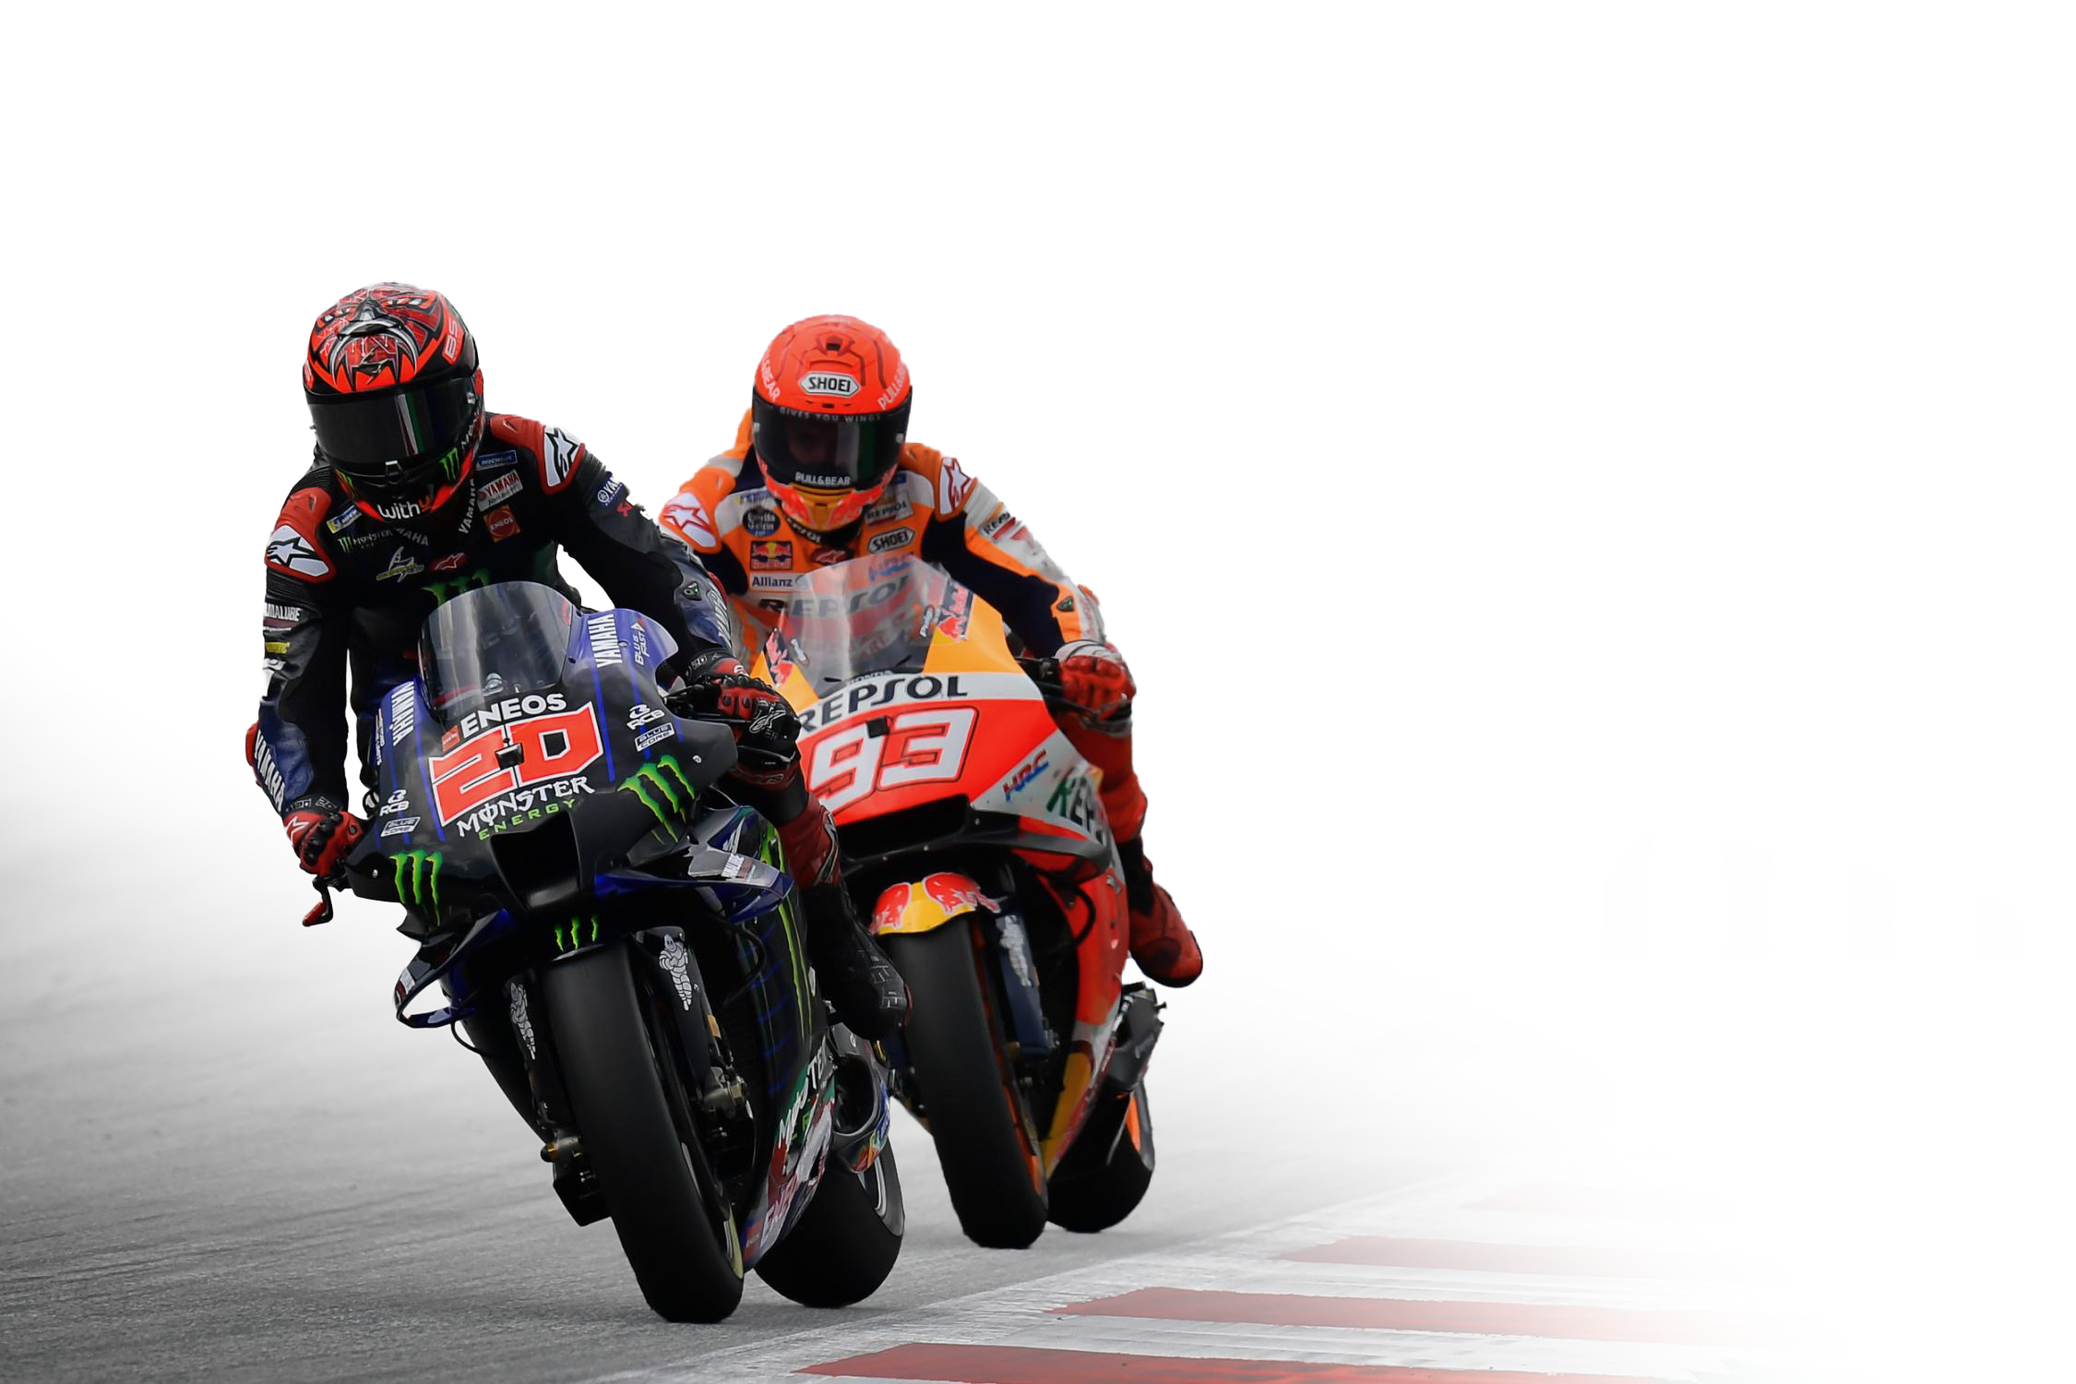
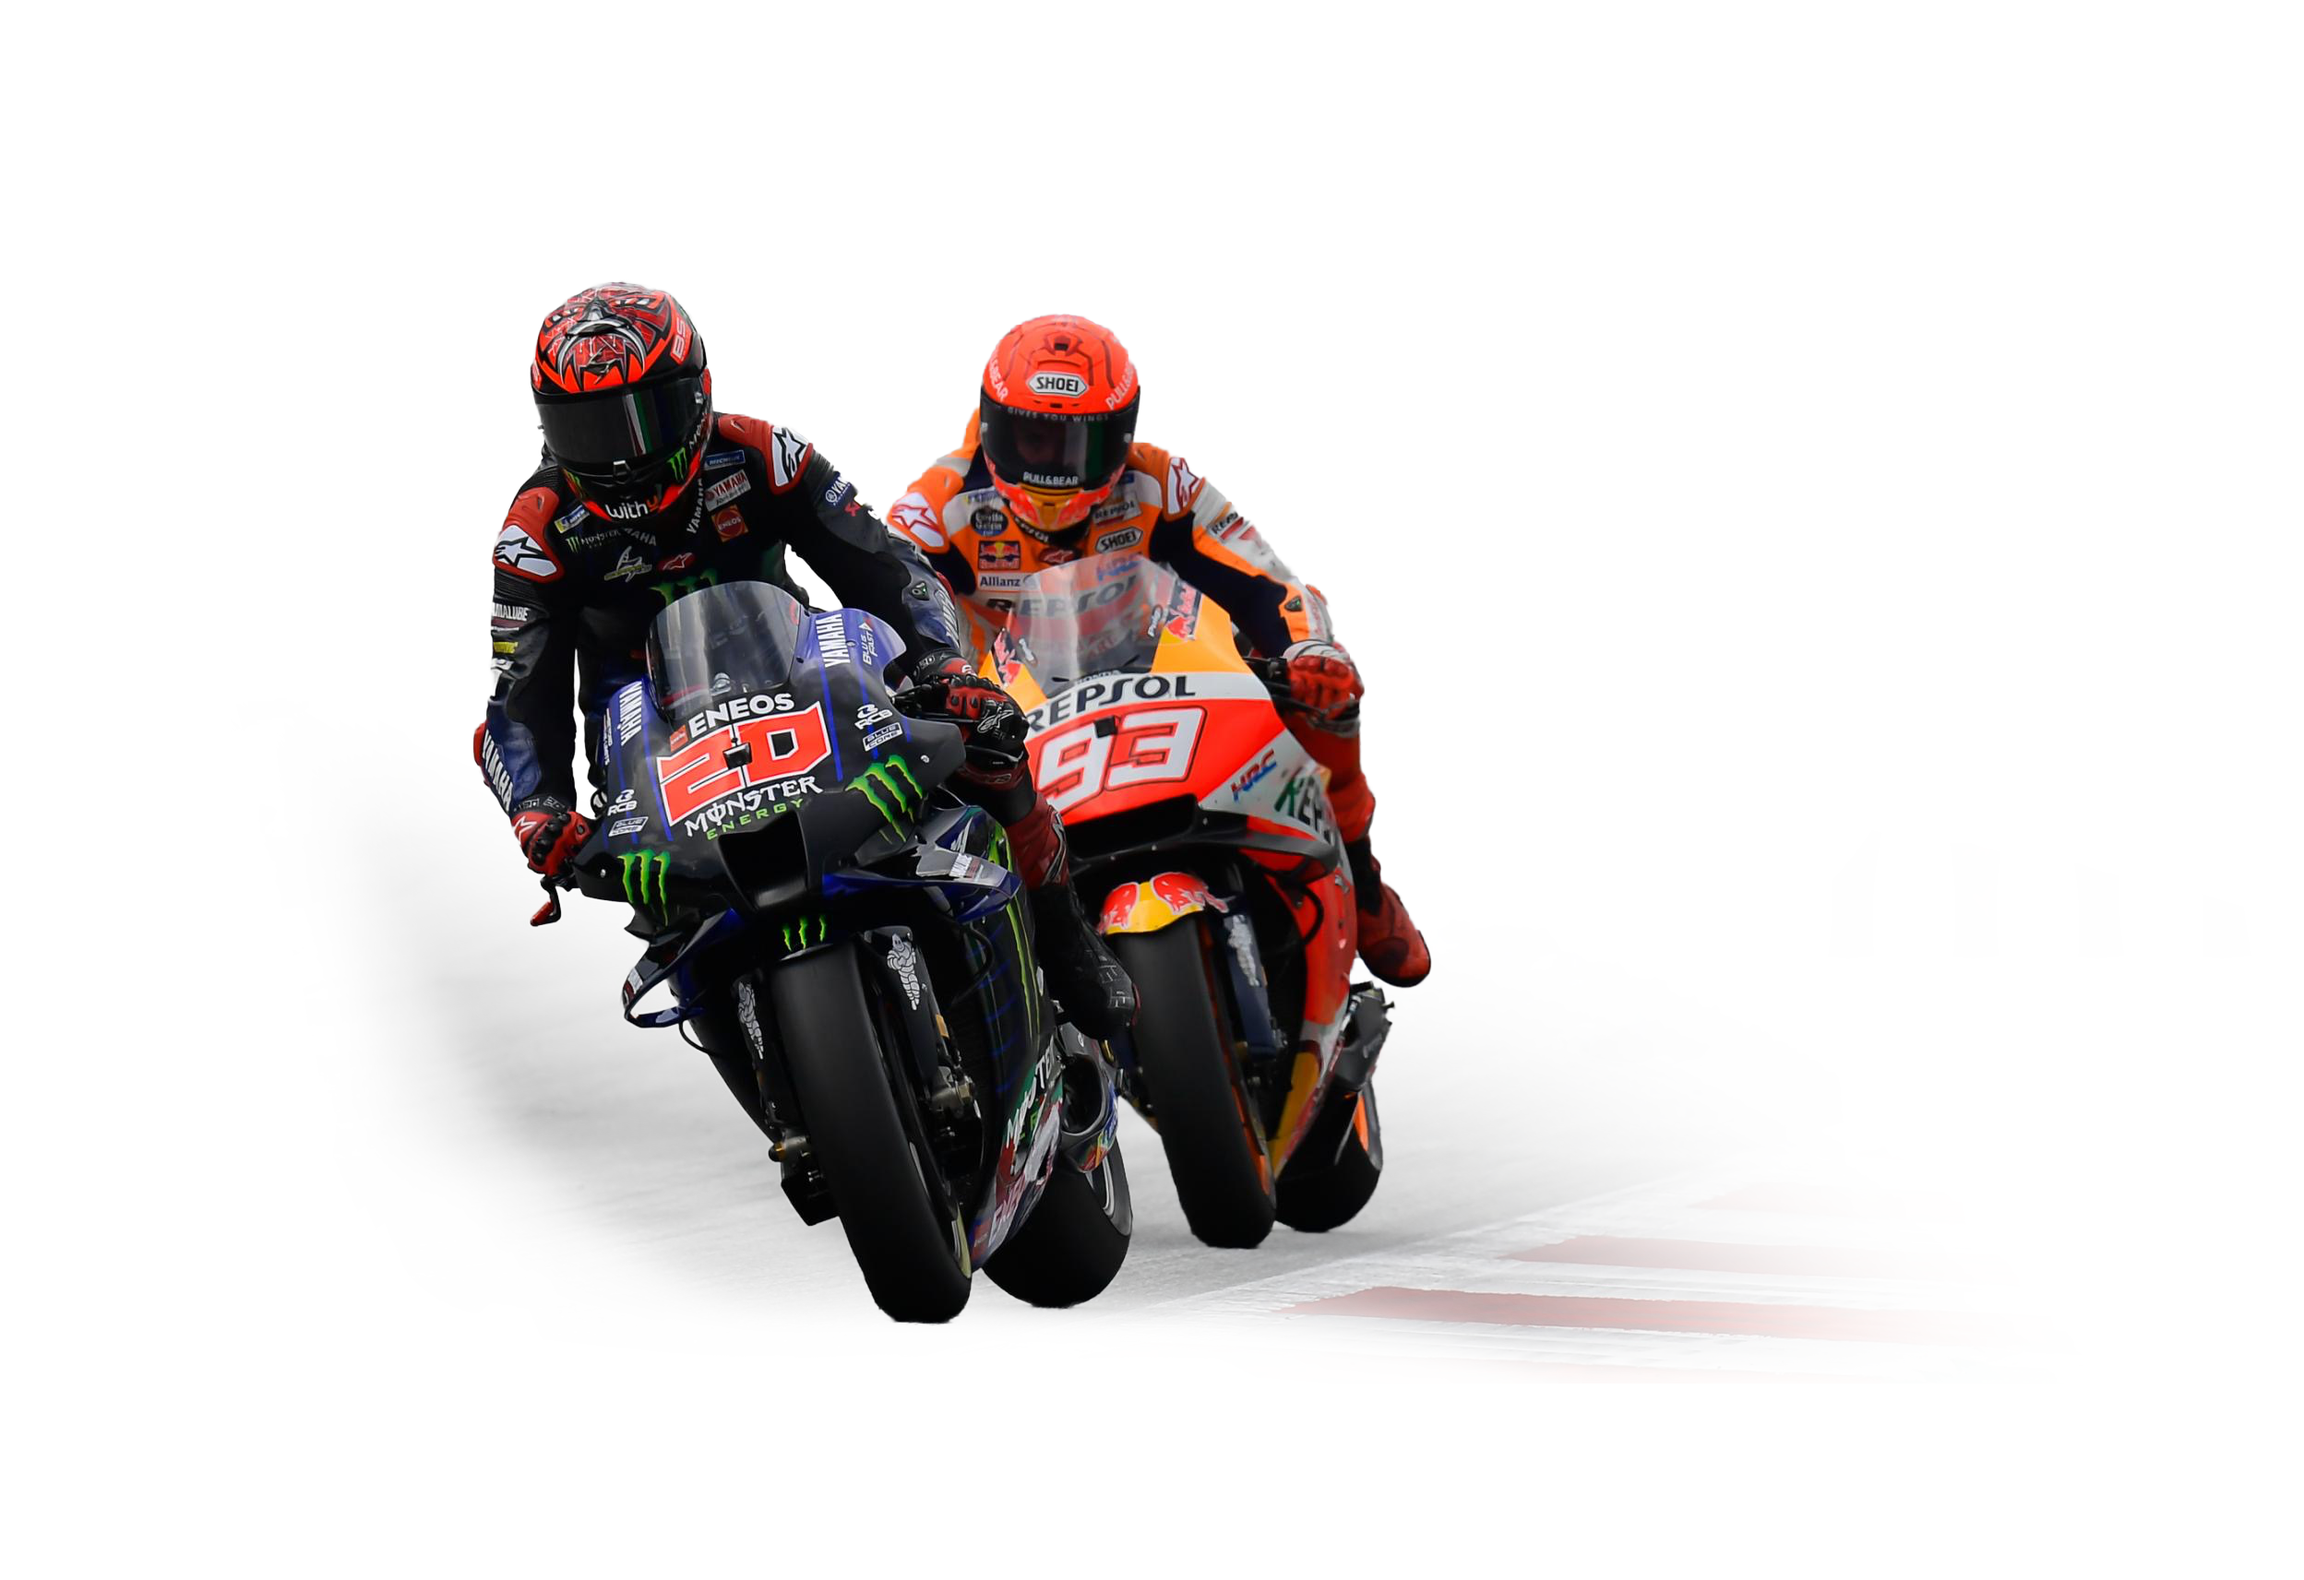
Add WelcomePage

diff --git a/front/pages/welcome.tsx b/front/pages/welcome.tsx
@@ -1,35 +1,55 @@
-import dynamic from "next/dynamic"
-import styled from "styled-components"
-import Form from "../components/logInForm";
+import styled from 'styled-components'
+import HomeInfo from '../components/HomeInfo'
+import Wrapper from '../components/Wrapper'
+import NextImage from 'next/image'
+import MotoImage from '../pictureAssets/BackGround/motoGp.png'
 
-const BackgroundImage = dynamic(() => import("../components/Wrapper"), {
-    ssr: false,
-  });
-  
-  const Wrapper = styled.div`
-    z-index: 1;
-    width: 100%;
-    height: 100%;
-    position: fixed;
-    justify-content: center;
-    align-items: center;
-    display: flex;
-  `;
+const Container = styled.div`
+  height: 100%;
+  width: 100%;
+  display: flex;
+  flex-direction: column;
+`
 
-  const Input = styled.div`
-    background-colo
-  `
-  
+const Header = styled.div`
+  height: 5rem;
+  margin-top: 3rem;
+  text-align: center;
+  color: white;
+  font-size: 2rem;
+  font-weight: bolder;
+`
+
+const HorizonLine = styled.hr`
+  width: 90%;
+  height: 2px;
+  background-color: white;
+  border: none;
+  padding-top: -10px;
+`
+
+const Content = styled.div`
+  display: flex;
+  flex-direction: row;
+  align-content: center;
+  justify-content: space-between;
+  padding: 70px;
+
+  padding-left: 15%;
+`
 
 export default function WelcomePage() {
-    return(
-    <>
-      <Wrapper>
-        <Form />
-      </Wrapper>
+  return (
+    <Wrapper>
+      <Container id="Conatiner">
+        <Header> W M C </Header>
+        <HorizonLine />
 
-      <BackgroundImage />
-      
-    </>
-  );
+        <Content id="Content">
+          <HomeInfo />
+          <NextImage src={MotoImage} />
+        </Content>
+      </Container>
+    </Wrapper>
+  )
 }
